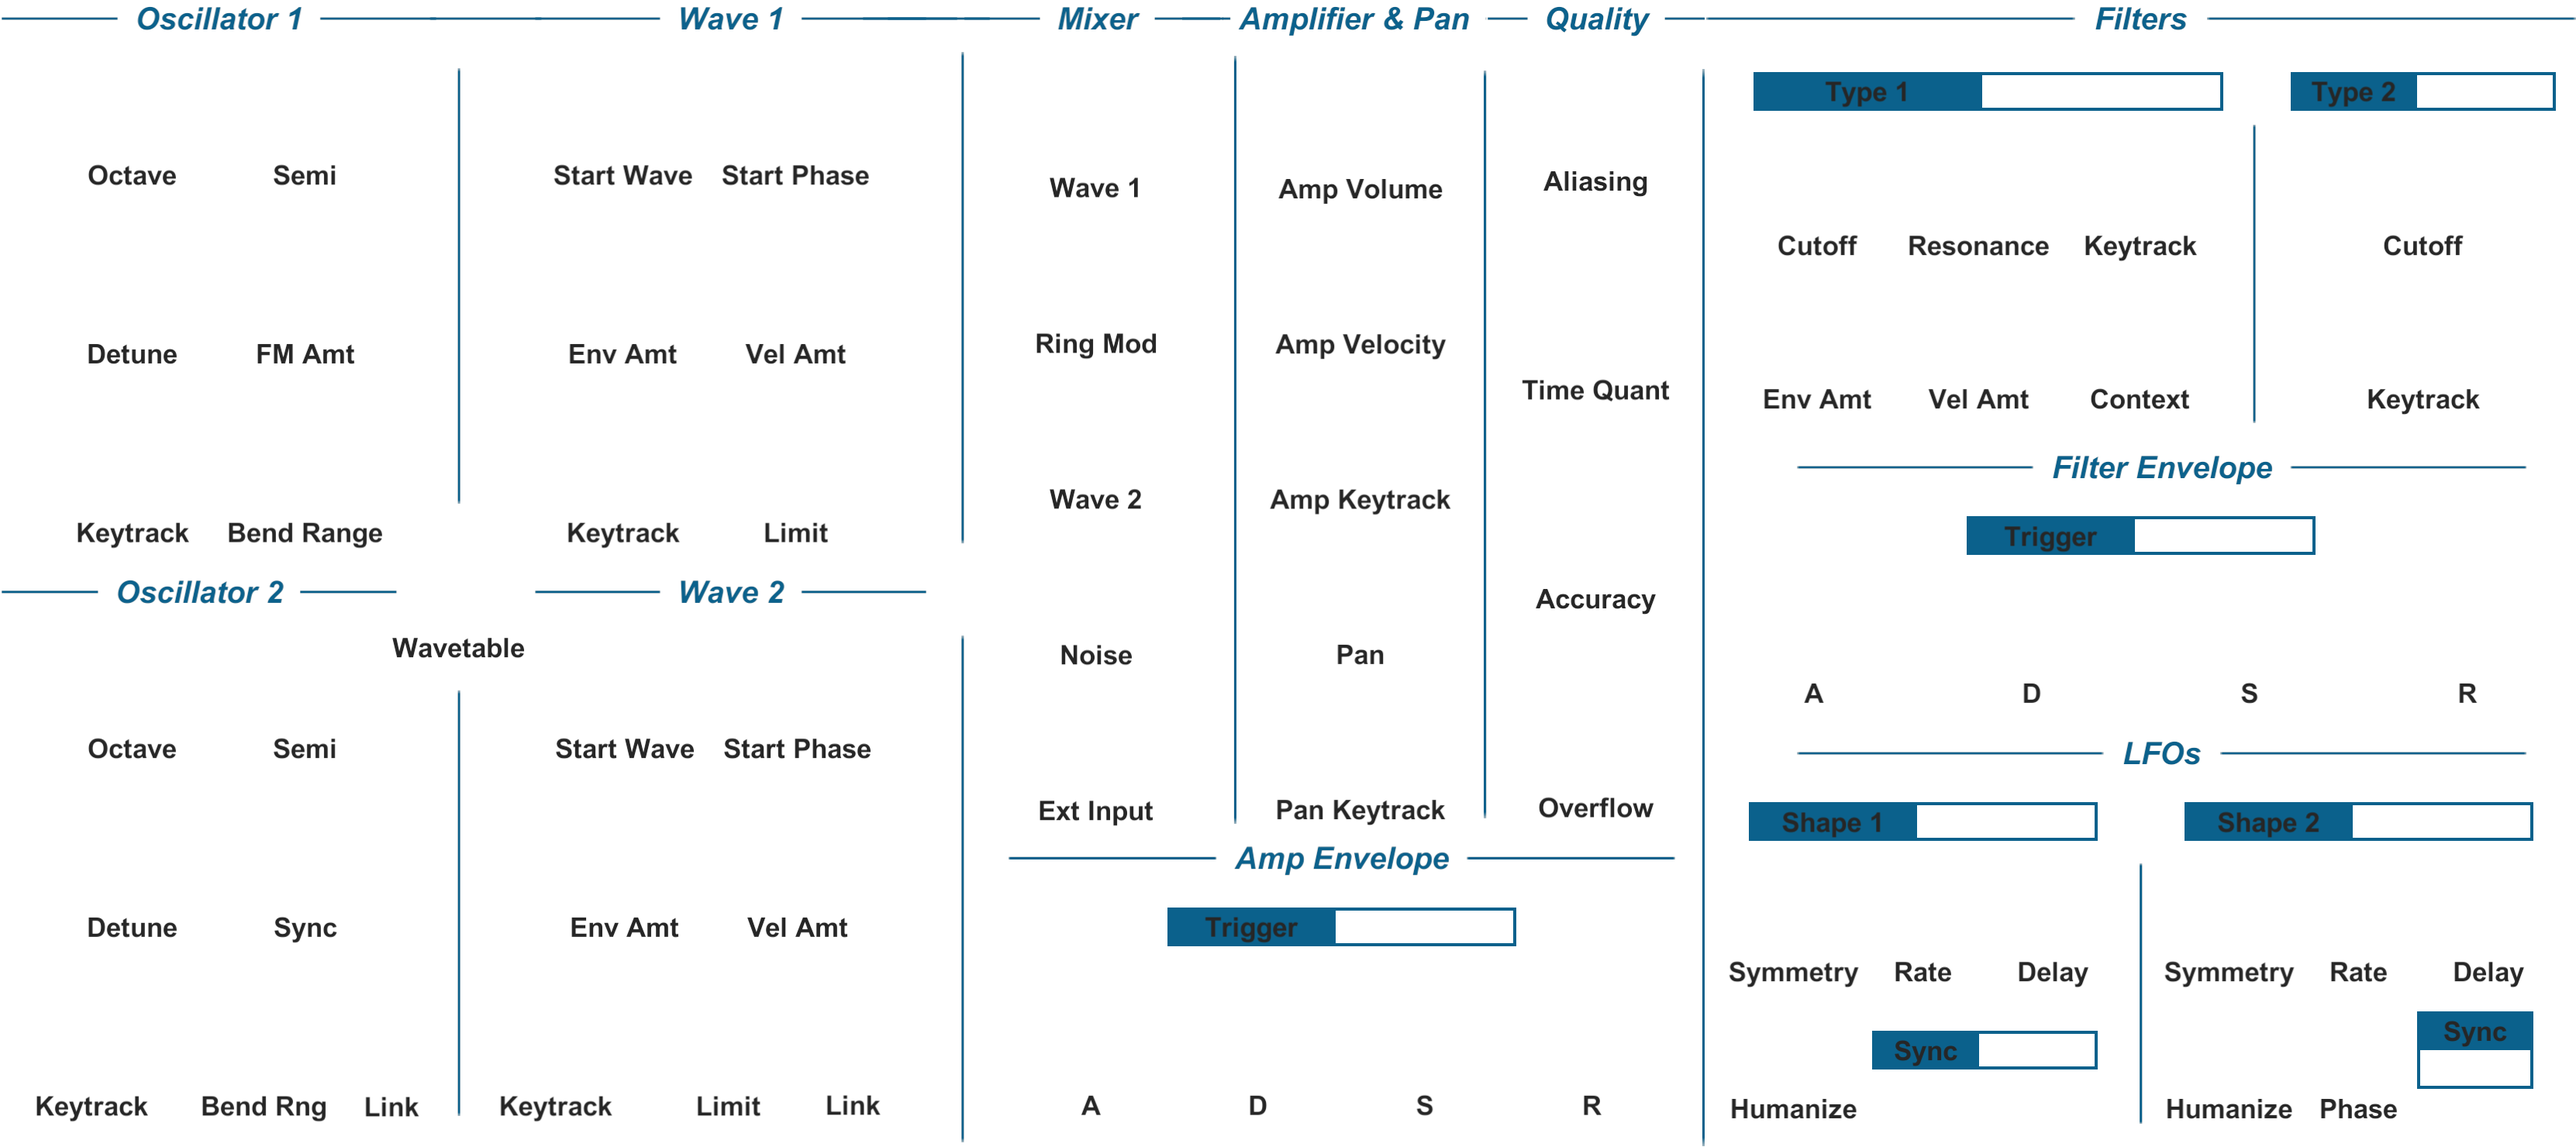
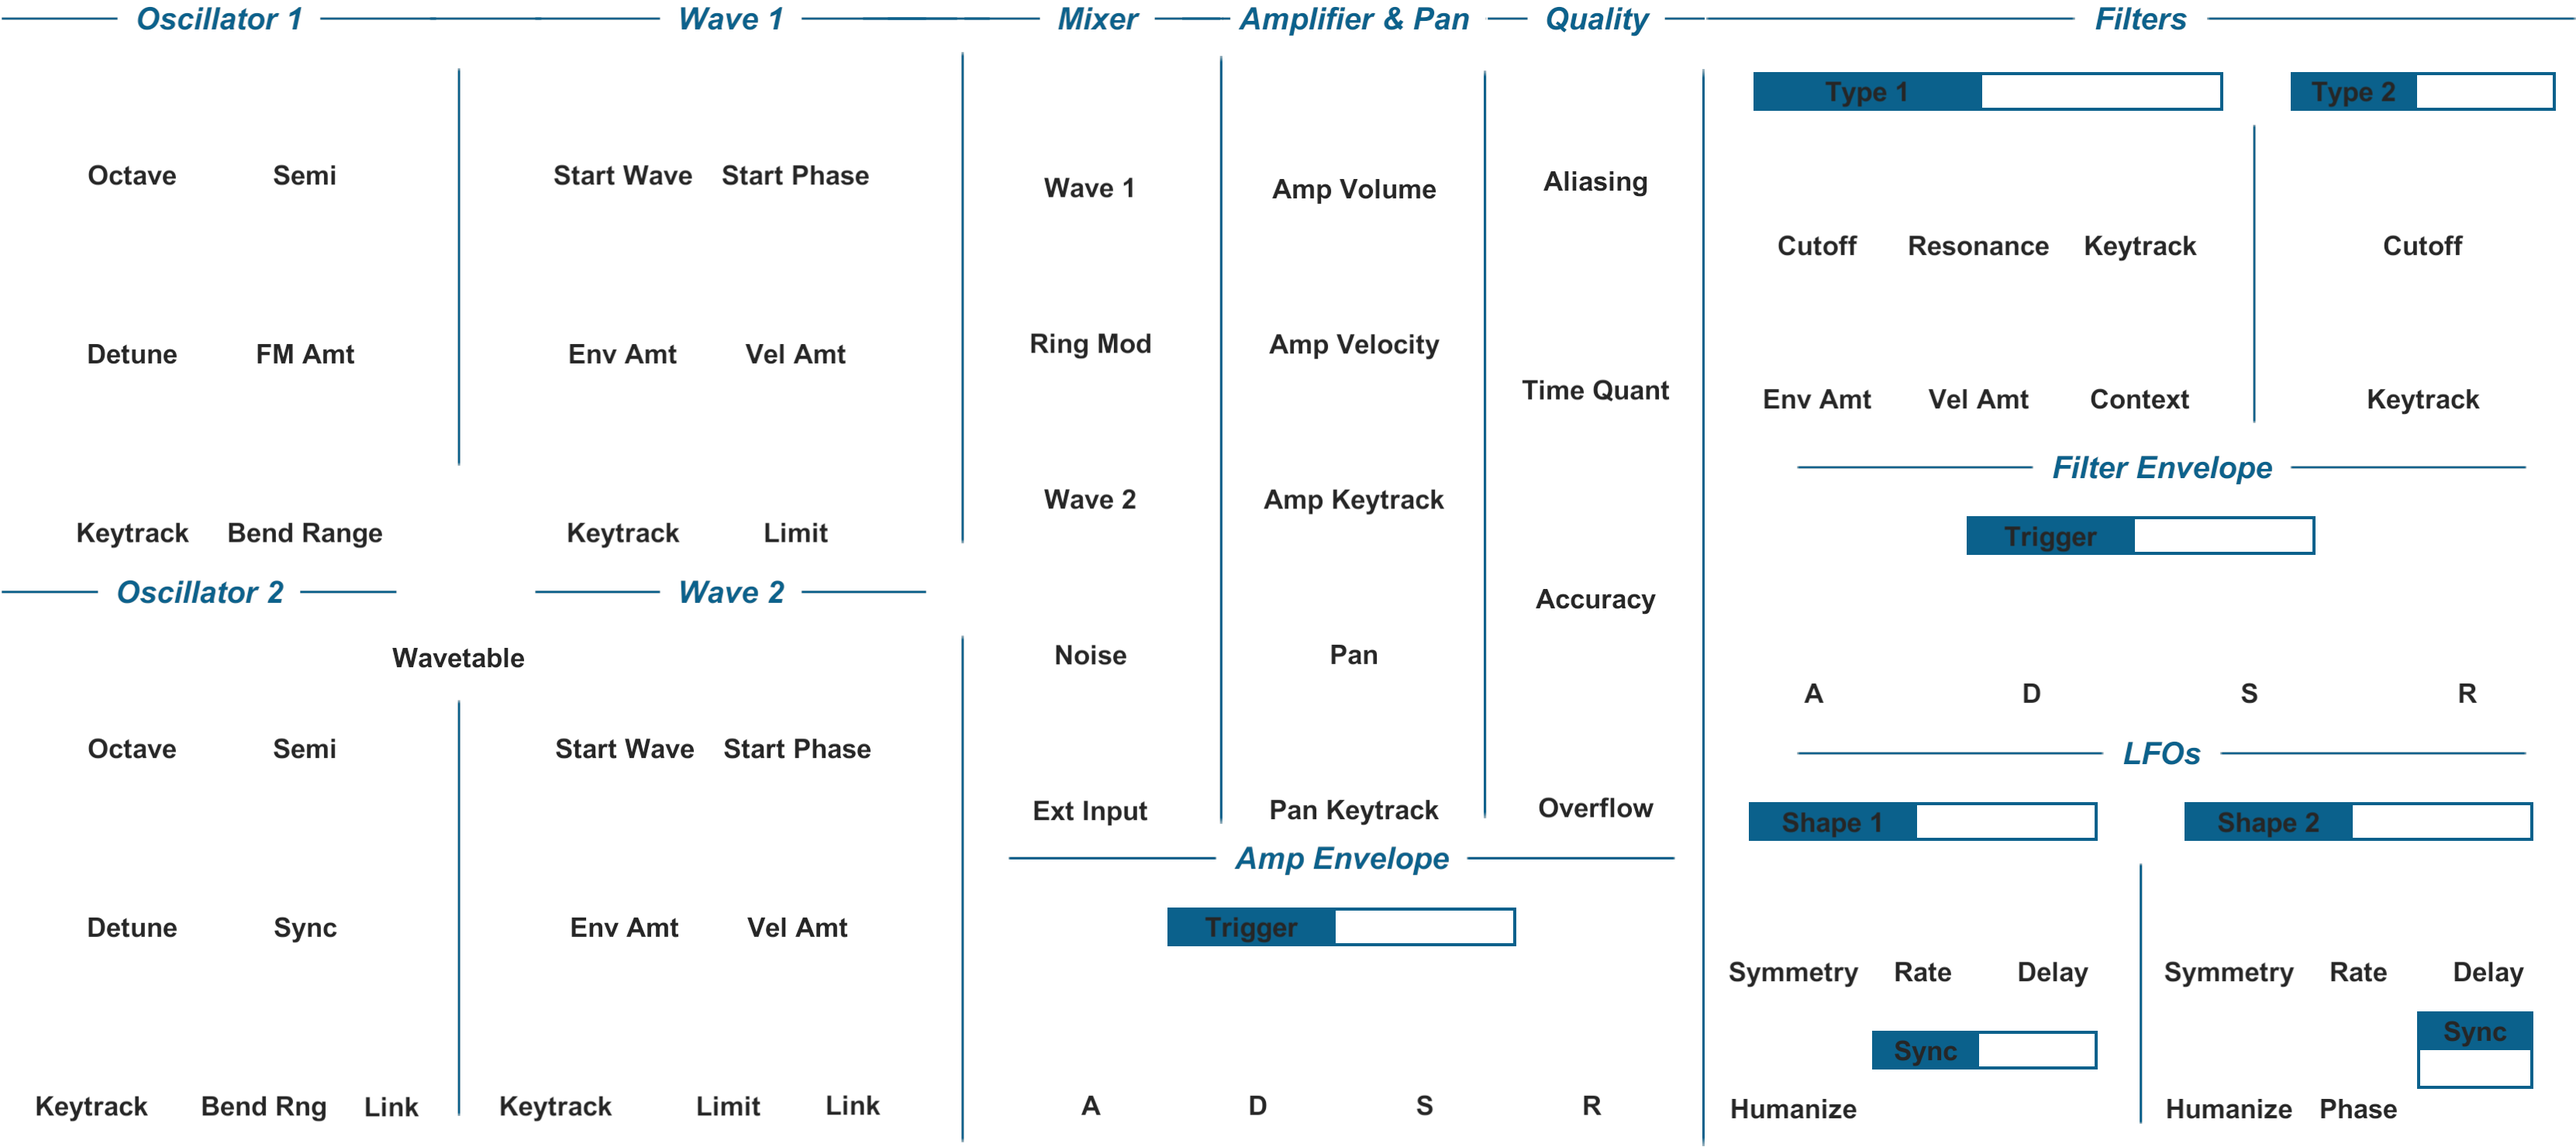
add -/+ buttons to change wave

diff --git a/source/xtJucePlugin/xtEditor.cpp b/source/xtJucePlugin/xtEditor.cpp
@@ -71,6 +71,22 @@ namespace xtJucePlugin
 			if(countAdded)
 				menu.showMenuAsync(juce::PopupMenu::Options());
 		};
+
+		if(auto* btWavePlus = findComponentT<juce::Button>("wtPlus", false))
+		{
+			btWavePlus->onClick = [this]
+			{
+				changeWave(1);
+			};
+		}
+
+		if(auto* btWaveMinus = findComponentT<juce::Button>("wtMinus", false))
+		{
+			btWaveMinus->onClick = [this]
+			{
+				changeWave(-1);
+			};
+		}
 	}
 
 	Editor::~Editor()
@@ -152,5 +168,39 @@ namespace xtJucePlugin
 	void Editor::mouseEnter(const juce::MouseEvent& _event)
 	{
 		m_focusedParameter->onMouseEnter(_event);
+	}
+
+	void Editor::changeWave(const int _step) const
+	{
+		if(!_step)
+			return;
+
+		uint32_t index;
+		if(!m_controller.getParameterDescriptions().getIndexByName(index, "Wave"))
+			return;
+
+		auto* p = m_controller.getParameter(index, m_controller.getCurrentPart());
+
+		if(!p)
+			return;
+
+		const auto& desc = p->getDescription();
+		const auto& range = desc.range;
+
+		int v = p->getUnnormalizedValue();
+
+		const auto& valList = desc.valueList;
+
+		while(v >= range.getStart() && v <= range.getEnd())
+		{
+			v += _step;
+			const auto newText = valList.valueToText(v);
+
+			if(newText.empty())
+				continue;
+
+			p->setValue(p->convertTo0to1(static_cast<float>(v)), pluginLib::Parameter::ChangedBy::Ui);
+			break;
+		}
 	}
 }

diff --git a/source/xtJucePlugin/xtEditor.h b/source/xtJucePlugin/xtEditor.h
@@ -52,6 +52,7 @@ namespace xtJucePlugin
 		void setCurrentPart(uint8_t _part) override;
 	private:
 		void mouseEnter(const juce::MouseEvent& _event) override;
+		void changeWave(int _step) const;
 
 		Controller& m_controller;
 		pluginLib::ParameterBinding& m_parameterBinding;
